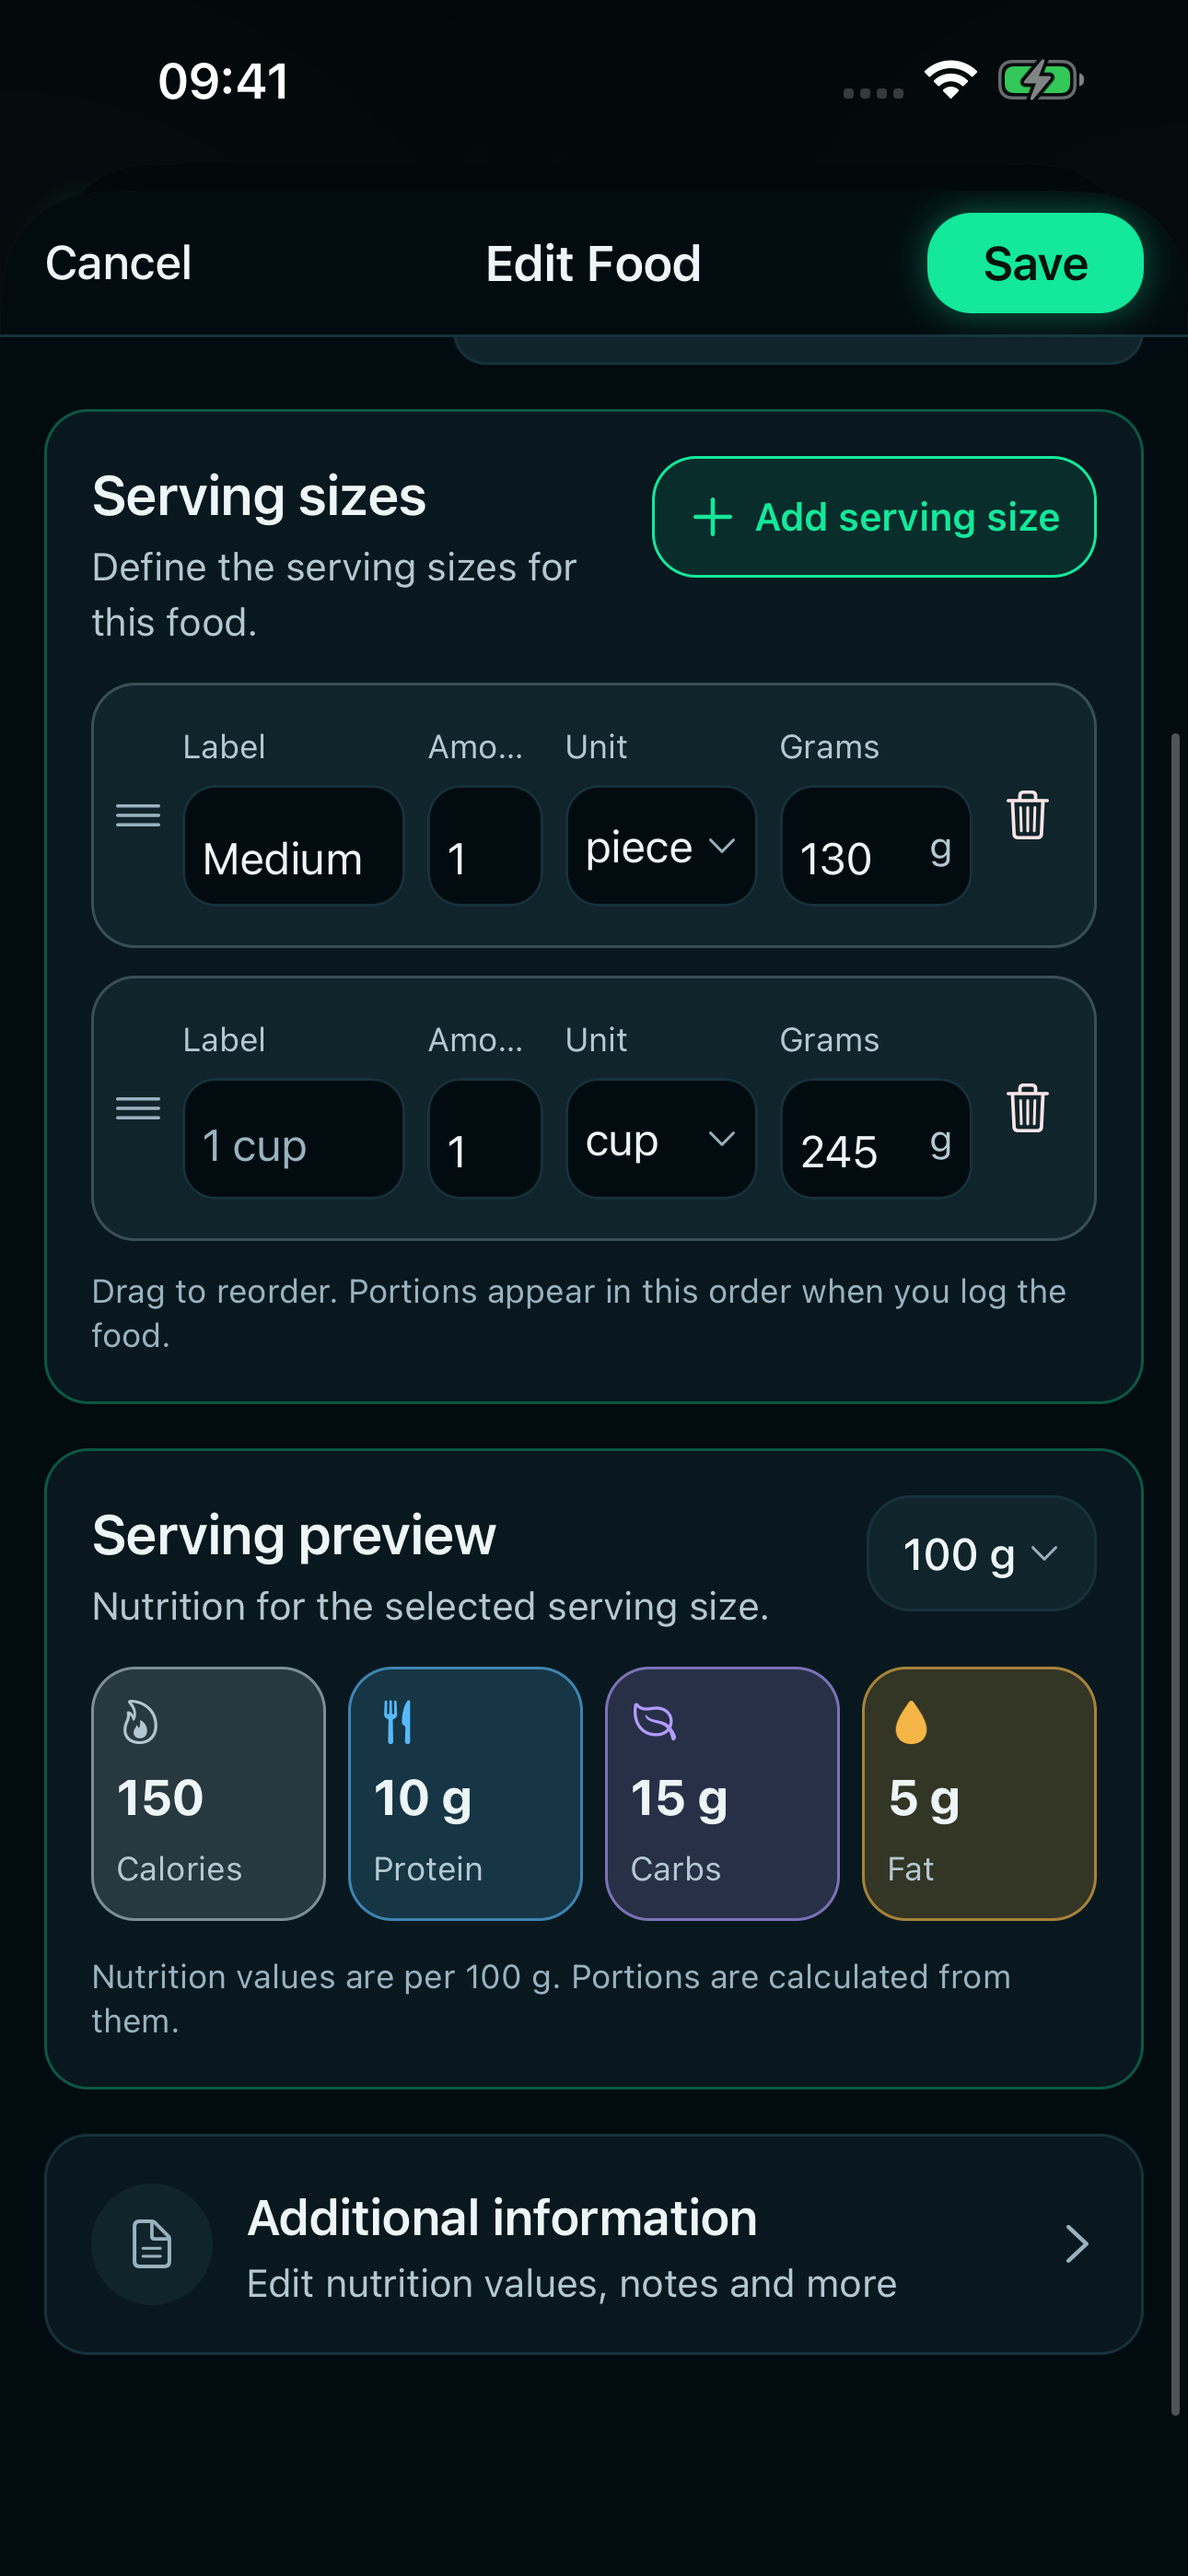
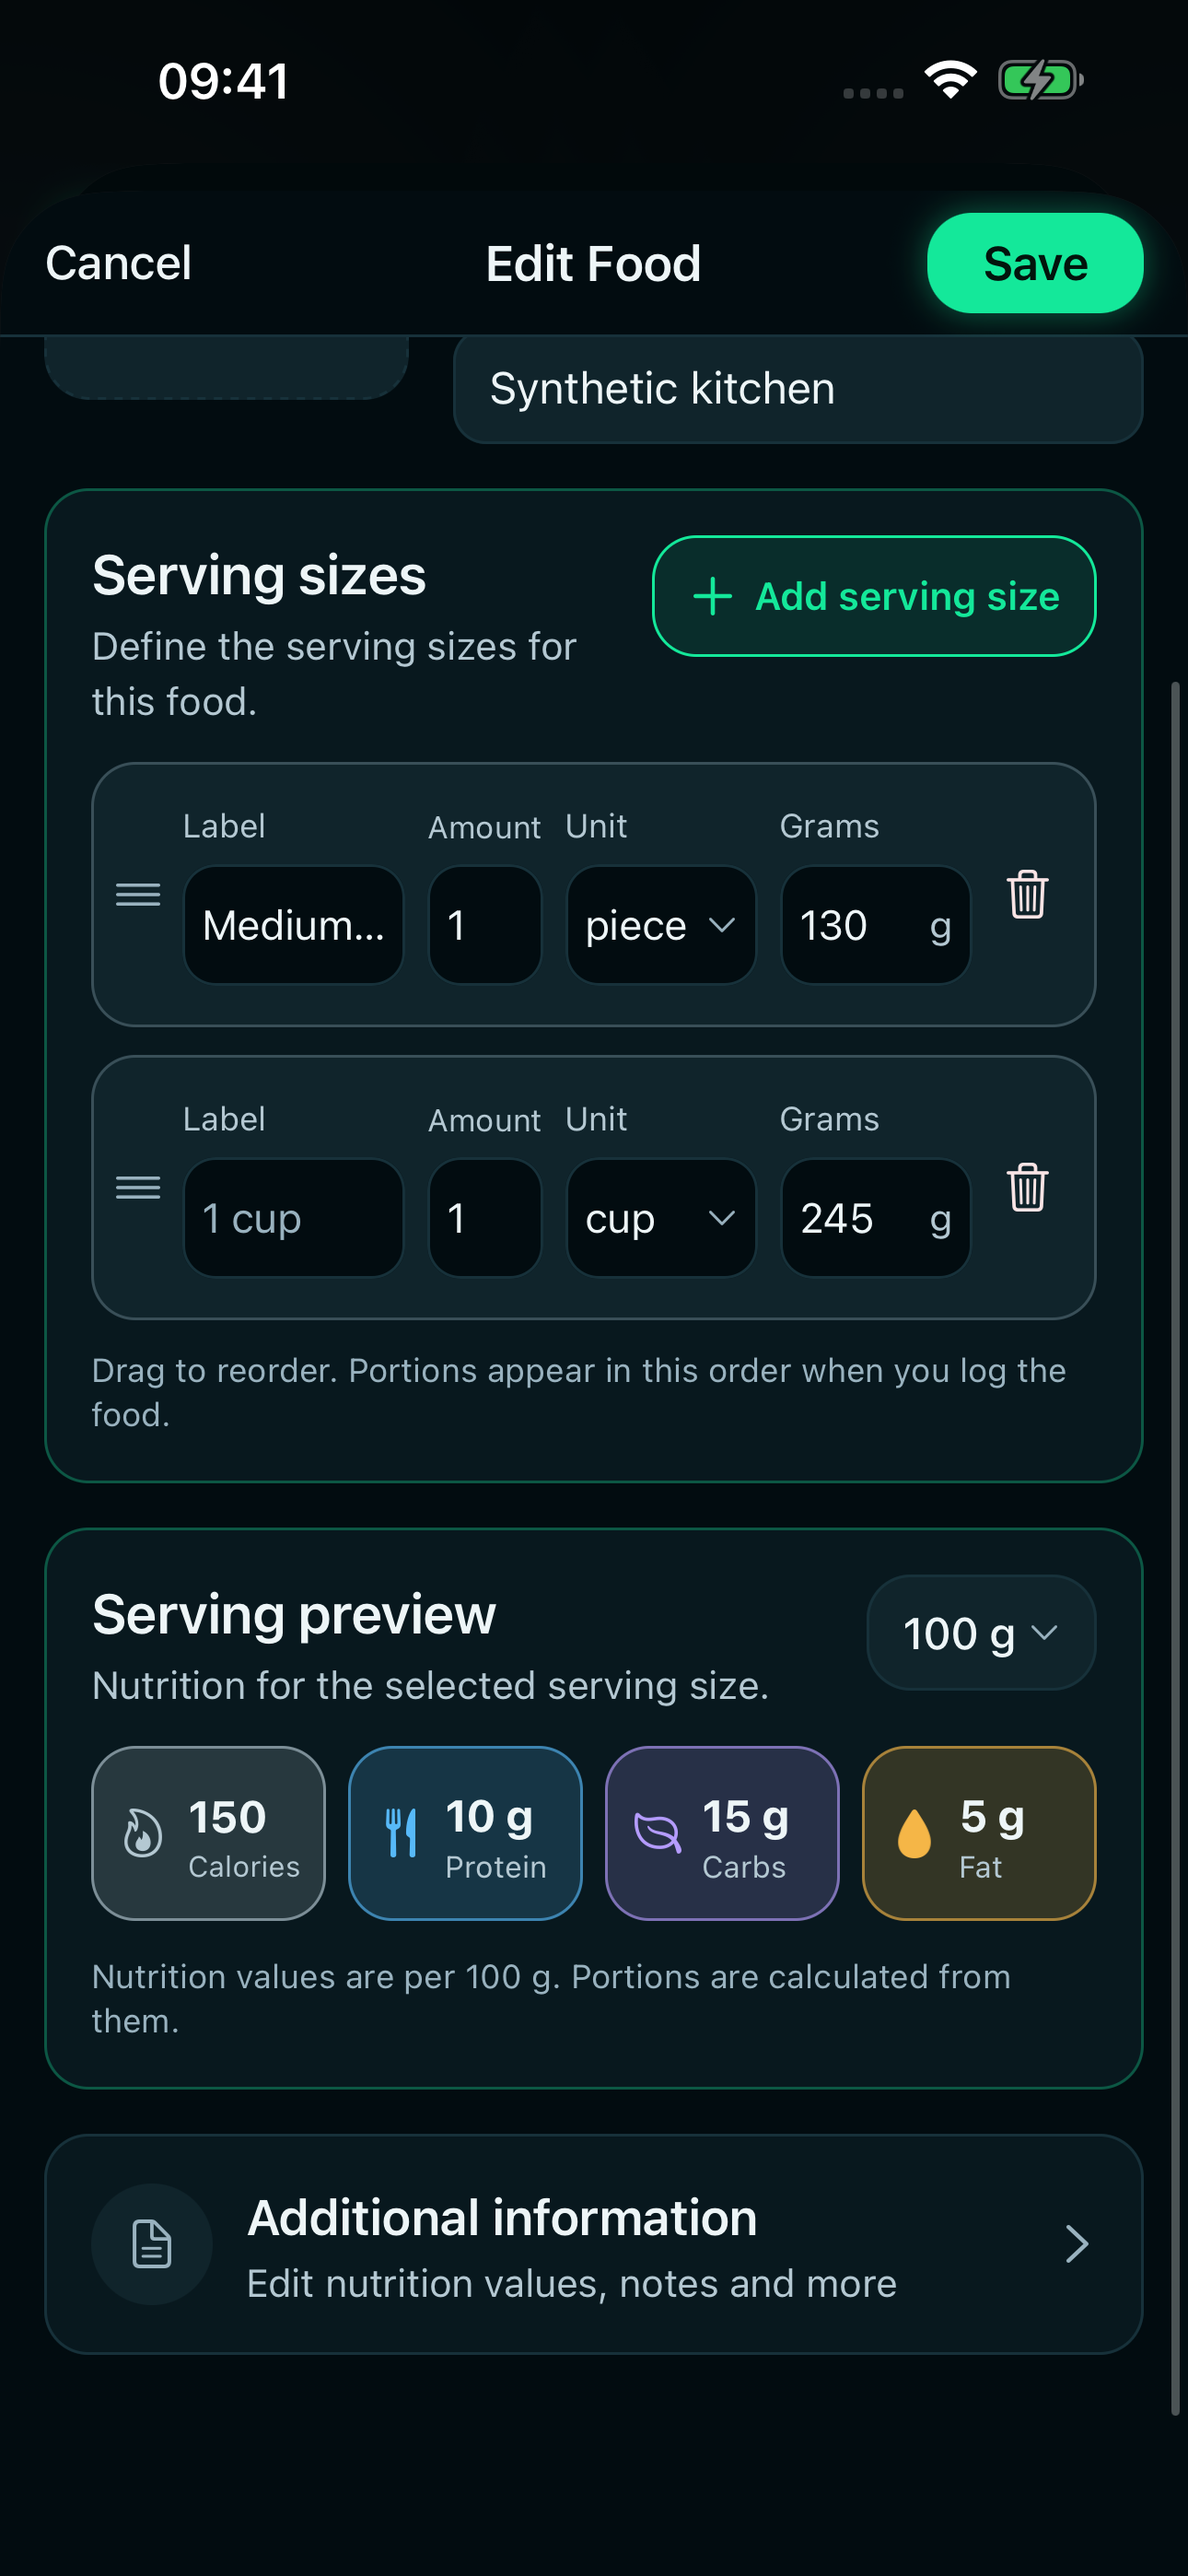
feat(mobile): closer details and Edit Food match to the references
Foods without a photo show their category artwork as the details hero, the
title uses the reference size, and the amount spinner becomes a one-value
field with an up/down hint that matches the unit field. Edit Food preview
tiles put the icon beside the value, inline row text is centred, and the
name field reads Name. Adds side-by-side comparison captures.

diff --git a/SparkyFitnessMobile/src/screens/FoodEntryAddScreen.tsx b/SparkyFitnessMobile/src/screens/FoodEntryAddScreen.tsx
@@ -32,7 +32,6 @@ import MarkdownNotesField from '../components/MarkdownNotesField';
 import { useKeepNoteVisible } from '../hooks/useKeepNoteVisible';
 import { NoteMarkdown } from '../components/NoteMarkdown';
 import SafeImage from '../components/SafeImage';
-import FoodThumbnail from '../components/FoodThumbnail';
 import { Image } from 'expo-image';
 import { foodFallbackImage } from '../utils/foodFallbackImages';
 import type { ExternalFoodItem } from '../types/externalFoods';
@@ -40,7 +39,7 @@ import VerifiedBadge from '../components/VerifiedBadge';
 import { useFoodImageSourceContext } from '../components/FoodImageSourceProvider';
 import { externalFoodImage, usableFoodImages } from '../utils/foodImages';
 import BottomSheetPicker from '../components/BottomSheetPicker';
-import AmountWheel from '../components/AmountWheel';
+import AmountWheel, { AMOUNT_WHEEL_HEIGHT } from '../components/AmountWheel';
 import { buildEditFoodParams } from '../utils/editFoodRoute';
 import { FoodNutrientBreakdown } from '../components/FoodNutritionSummary';
 import { localizeNutrientKey } from '../utils/nutrientLocalization';
@@ -1869,6 +1868,7 @@ const FoodEntryAddScreenContent: React.FC<FoodEntryAddScreenProps> = ({
 
   // Outlined inputs of the reference: accent hairline over the card surface.
   const outlinedFieldStyle = {
+    minHeight: AMOUNT_WHEEL_HEIGHT,
     borderColor: withAlpha(accentColor, 0.7),
     backgroundColor: withAlpha(accentColor, 0.05),
   };
@@ -2012,7 +2012,7 @@ const FoodEntryAddScreenContent: React.FC<FoodEntryAddScreenProps> = ({
         scrollEventThrottle={16}
         onContentSizeChange={noteVisibility.onContentSizeChange}
         className="flex-1"
-        contentContainerClassName={foodImagePath ? '' : 'pt-4'}
+        contentContainerClassName=""
         contentContainerStyle={{
           paddingBottom: Math.max(insets.bottom, 12) + 96,
         }}
@@ -2045,12 +2045,31 @@ const FoodEntryAddScreenContent: React.FC<FoodEntryAddScreenProps> = ({
               }
             />
           </View>
-        ) : null}
+        ) : (
+          // No photo: the food group's artwork fills the hero, display-only
+          // (never saved as the food's image), as in the reference layout.
+          <View
+            testID="food-entry-category-hero"
+            className="items-center justify-center overflow-hidden"
+            style={{
+              height: 240,
+              experimental_backgroundImage: `radial-gradient(circle at 50% 45%, ${withAlpha(accentColor, 0.18)} 0%, #00000000 70%)`,
+            }}
+            accessibilityElementsHidden
+            importantForAccessibility="no-hide-descendants"
+          >
+            <Image
+              source={fallbackArtwork}
+              style={{ width: 190, height: 190 }}
+              contentFit="contain"
+            />
+          </View>
+        )}
 
         <View
           className="mx-4 rounded-2xl border border-border-subtle bg-surface px-4 py-5 gap-5"
           style={[
-            foodImagePath ? { marginTop: -32 } : null,
+            { marginTop: -32 },
             glowing
               ? {
                   experimental_backgroundImage:
@@ -2061,18 +2080,7 @@ const FoodEntryAddScreenContent: React.FC<FoodEntryAddScreenProps> = ({
         >
           <View>
             <View className="flex-row items-start gap-2">
-              {foodImagePath ? null : (
-                <FoodThumbnail
-                  image={null}
-                  name={activeItem.name}
-                  foodGroupTags={foodGroupTags}
-                  variant={activeItem.source === 'meal' ? 'meal' : 'food'}
-                  getImageSource={getFoodImageSource}
-                  size={56}
-                  testID="food-entry-category-thumbnail"
-                />
-              )}
-              <Text className="flex-1 text-3xl font-bold text-text-primary">
+              <Text className="flex-1 text-2xl font-bold text-text-primary">
                 {adjustedValues?.name || activeItem.name}
               </Text>
               {activeItem.provider_verified ? (
@@ -2605,7 +2613,7 @@ const FoodEntryAddScreenContent: React.FC<FoodEntryAddScreenProps> = ({
               <Icon name="bolt" size={20} color={accentColor} />
               <Text className="flex-1 text-xl font-semibold text-text-primary">
                 {t('foodEntryAdd.quickAdd.title', {
-                  defaultValue: 'Quick add',
+                  defaultValue: 'Quick Add',
                 })}
               </Text>
               <Text className="text-xs font-medium uppercase tracking-widest text-text-secondary">

diff --git a/SparkyFitnessMobile/src/components/AmountWheel.tsx b/SparkyFitnessMobile/src/components/AmountWheel.tsx
@@ -11,13 +11,15 @@ import {
   type NativeSyntheticEvent,
 } from 'react-native';
 import { useCSSVariable } from 'uniwind';
+import Icon from './Icon';
 import { withAlpha } from './ui/glow';
 import { formatLocalizedNumber } from '../localization';
 import { DECIMAL_INPUT_REGEX, parseDecimalInput } from '../utils/numericInput';
 import { formatServingSizeDisplay } from '../utils/foodDetails';
 
-export const AMOUNT_WHEEL_ROW_HEIGHT = 44;
-const VISIBLE_ROWS = 3;
+/** One value fills the field, like a text field; swiping spins the value. */
+export const AMOUNT_WHEEL_HEIGHT = 56;
+export const AMOUNT_WHEEL_ROW_HEIGHT = AMOUNT_WHEEL_HEIGHT;
 
 /** Wheel values: a regular grid, plus the current value when it is off-grid. */
 export function buildAmountSteps(
@@ -151,9 +153,10 @@ const AmountWheel: React.FC<AmountWheelProps> = ({
         accessibilityLabel={t('foodEntryAdd.labels.amount', {
           defaultValue: 'Amount',
         })}
-        className="w-28 rounded-xl border bg-surface px-3 text-center text-2xl font-bold text-text-primary"
+        className="rounded-xl border bg-surface px-4 text-2xl text-text-primary"
         style={{
-          height: AMOUNT_WHEEL_ROW_HEIGHT * VISIBLE_ROWS,
+          flex: 0.66,
+          height: AMOUNT_WHEEL_HEIGHT,
           borderColor: accent,
         }}
       />
@@ -184,25 +187,15 @@ const AmountWheel: React.FC<AmountWheelProps> = ({
         },
       ]}
       onAccessibilityAction={onAccessibilityAction}
-      className="w-28 overflow-hidden rounded-xl border"
+      className="overflow-hidden rounded-xl border"
       style={{
-        height: AMOUNT_WHEEL_ROW_HEIGHT * VISIBLE_ROWS,
+        flex: 0.66,
+        height: AMOUNT_WHEEL_HEIGHT,
         borderColor: withAlpha(accent, 0.7),
         backgroundColor: withAlpha(accent, 0.05),
       }}
       pointerEvents={disabled ? 'none' : 'auto'}
     >
-      {/* Selection band behind the centre row. */}
-      <View
-        pointerEvents="none"
-        className="absolute left-1 right-1 rounded-lg border"
-        style={{
-          top: AMOUNT_WHEEL_ROW_HEIGHT,
-          height: AMOUNT_WHEEL_ROW_HEIGHT,
-          borderColor: withAlpha(accent, 0.6),
-          backgroundColor: withAlpha(accent, 0.12),
-        }}
-      />
       <ScrollView
         ref={scrollRef}
         showsVerticalScrollIndicator={false}
@@ -214,7 +207,6 @@ const AmountWheel: React.FC<AmountWheelProps> = ({
           // A drag released without momentum still has to settle.
           if (!event.nativeEvent.velocity?.y) settle(event);
         }}
-        contentContainerStyle={{ paddingVertical: AMOUNT_WHEEL_ROW_HEIGHT }}
       >
         {steps.map((n, rowIndex) => {
           const selected = rowIndex === index;
@@ -225,14 +217,13 @@ const AmountWheel: React.FC<AmountWheelProps> = ({
               onLongPress={startEditing}
               delayLongPress={350}
               style={{ height: AMOUNT_WHEEL_ROW_HEIGHT }}
-              className="items-center justify-center"
+              className="justify-center pl-4 pr-8"
               importantForAccessibility="no"
             >
               <Text
-                className={
-                  selected ? 'text-2xl font-bold text-text-primary' : 'text-lg'
-                }
+                className="text-2xl text-text-primary"
                 style={selected ? undefined : { color: textMuted }}
+                numberOfLines={1}
               >
                 {formatLocalizedNumber(n, { maximumFractionDigits: 2 })}
               </Text>
@@ -240,6 +231,14 @@ const AmountWheel: React.FC<AmountWheelProps> = ({
           );
         })}
       </ScrollView>
+      {/* Spinner hint: swipe up or down to change the amount. */}
+      <View
+        pointerEvents="none"
+        className="absolute bottom-0 right-2 top-0 justify-center"
+      >
+        <Icon name="chevron-up" size={12} color={textMuted} />
+        <Icon name="chevron-down" size={12} color={textMuted} />
+      </View>
     </View>
   );
 };

diff --git a/SparkyFitnessMobile/src/components/foodForm/ServingSizesEditor.tsx b/SparkyFitnessMobile/src/components/foodForm/ServingSizesEditor.tsx
@@ -110,7 +110,8 @@ const CellInput: React.FC<{
       keyboardType={numeric ? 'decimal-pad' : 'default'}
       returnKeyType="done"
       maxLength={numeric ? 10 : 40}
-      className="min-w-0 flex-1 text-base text-text-primary"
+      className="min-w-0 flex-1 text-[15px] text-text-primary"
+      style={{ paddingVertical: 0, textAlignVertical: 'center' }}
     />
     {suffix ? (
       <Text className="ml-0.5 text-sm text-text-secondary">{suffix}</Text>
@@ -315,7 +316,7 @@ const ServingRow: React.FC<{
                   }
                 >
                   <Text
-                    className="min-w-0 flex-1 text-base text-text-primary"
+                    className="min-w-0 flex-1 text-[15px] text-text-primary"
                     numberOfLines={1}
                   >
                     {selectedOption?.label ?? localizeFoodUnit(draft.unit, t)}
@@ -825,7 +826,7 @@ const ServingSizesEditor: React.FC<ServingSizesEditorProps> = ({
                 return (
                   <View
                     key={tile.key}
-                    className="min-w-0 flex-1 gap-1 rounded-xl border px-2 py-2.5"
+                    className="min-w-0 flex-1 flex-row items-center gap-1.5 rounded-xl border px-2 py-3"
                     style={{
                       borderColor: withAlpha(color, 0.6),
                       backgroundColor: withAlpha(color, 0.18),
@@ -833,20 +834,25 @@ const ServingSizesEditor: React.FC<ServingSizesEditorProps> = ({
                     accessible
                     accessibilityLabel={`${label}: ${value}`}
                   >
-                    <Icon name={tile.icon} size={18} color={color} />
-                    <Text
-                      className="text-lg font-bold text-text-primary"
-                      numberOfLines={1}
-                      adjustsFontSizeToFit
-                    >
-                      {value}
-                    </Text>
-                    <Text
-                      className="text-xs text-text-secondary"
-                      numberOfLines={1}
-                    >
-                      {label}
-                    </Text>
+                    <Icon name={tile.icon} size={20} color={color} />
+                    <View className="min-w-0 flex-1">
+                      <Text
+                        className="text-base font-bold text-text-primary"
+                        numberOfLines={1}
+                        adjustsFontSizeToFit
+                        minimumFontScale={0.7}
+                      >
+                        {value}
+                      </Text>
+                      <Text
+                        className="text-[11px] text-text-secondary"
+                        numberOfLines={1}
+                        adjustsFontSizeToFit
+                        minimumFontScale={0.8}
+                      >
+                        {label}
+                      </Text>
+                    </View>
                   </View>
                 );
               })}

diff --git a/SparkyFitnessMobile/__tests__/screens/FoodEntryAddScreen.test.tsx b/SparkyFitnessMobile/__tests__/screens/FoodEntryAddScreen.test.tsx
@@ -546,7 +546,11 @@ describe('FoodEntryAddScreen', () => {
 
   it('shows category artwork, not a stored image, when a food has no photo', () => {
     const screen = renderScreen({ item: baseLocalItem, date: '2026-04-23' });
-    expect(screen.getByTestId('food-entry-category-thumbnail')).toBeTruthy();
+    expect(
+      screen.getByTestId('food-entry-category-hero', {
+        includeHiddenElements: true,
+      })
+    ).toBeTruthy();
   });
 
   const yogurtVariants = [

diff --git a/SparkyFitnessMobile/src/components/FoodForm.tsx b/SparkyFitnessMobile/src/components/FoodForm.tsx
@@ -964,7 +964,7 @@ const FoodForm: React.FC<FoodFormProps> = ({
             {identityAside}
             <View className="min-w-0 flex-1 gap-3">
               {renderTextField(
-                t('foodForm.foodName', { defaultValue: 'Food Name' }),
+                t('foodForm.name', { defaultValue: 'Name' }),
                 'name',
                 t('foodForm.foodNamePlaceholder', {
                   defaultValue: 'e.g. Chicken Breast',

diff --git a/docs/implementation/serving-sizes-ui-2026-09-30.md b/docs/implementation/serving-sizes-ui-2026-09-30.md
@@ -68,6 +68,15 @@ Captures, synthetic fixture, English, dark, 430 pt, are in `x-on-track-design/re
 
 - **Details hero:** no hero photo and no "Whole food"/"Natural choice" labels. The food has no stored category, and the "Good Food / Brighter You" copy is illustrative.
 - **Food details header:** it keeps the pencil next to the favourite star.
-- **Spinner size:** the spinner is taller than the reference's single-line field.
 - **Edit Food identity row:** it shows Brand instead of Food Group.
 - **Not captured:** light theme, German, narrower widths and large text. Physical-device checks are still open.
+
+## Second pass against the details reference
+
+- **Photo area:** foods without a photo show their category artwork as a hero banner. It is display-only, as before, and replaces the small thumbnail. The title uses the reference size.
+- **Amount spinner:** it is now a single-value field the same height as the unit field, with an up/down hint. Swiping spins the value; a long press types it.
+- **Edit Food:**
+  - The preview tiles put the icon beside the value, as in the reference.
+  - The row field text is vertically centred.
+  - The name field is labelled "Name".
+- **Captures:** side-by-side comparisons are `compare-food-details.png` and `compare-edit-food.png` in the review folder.
